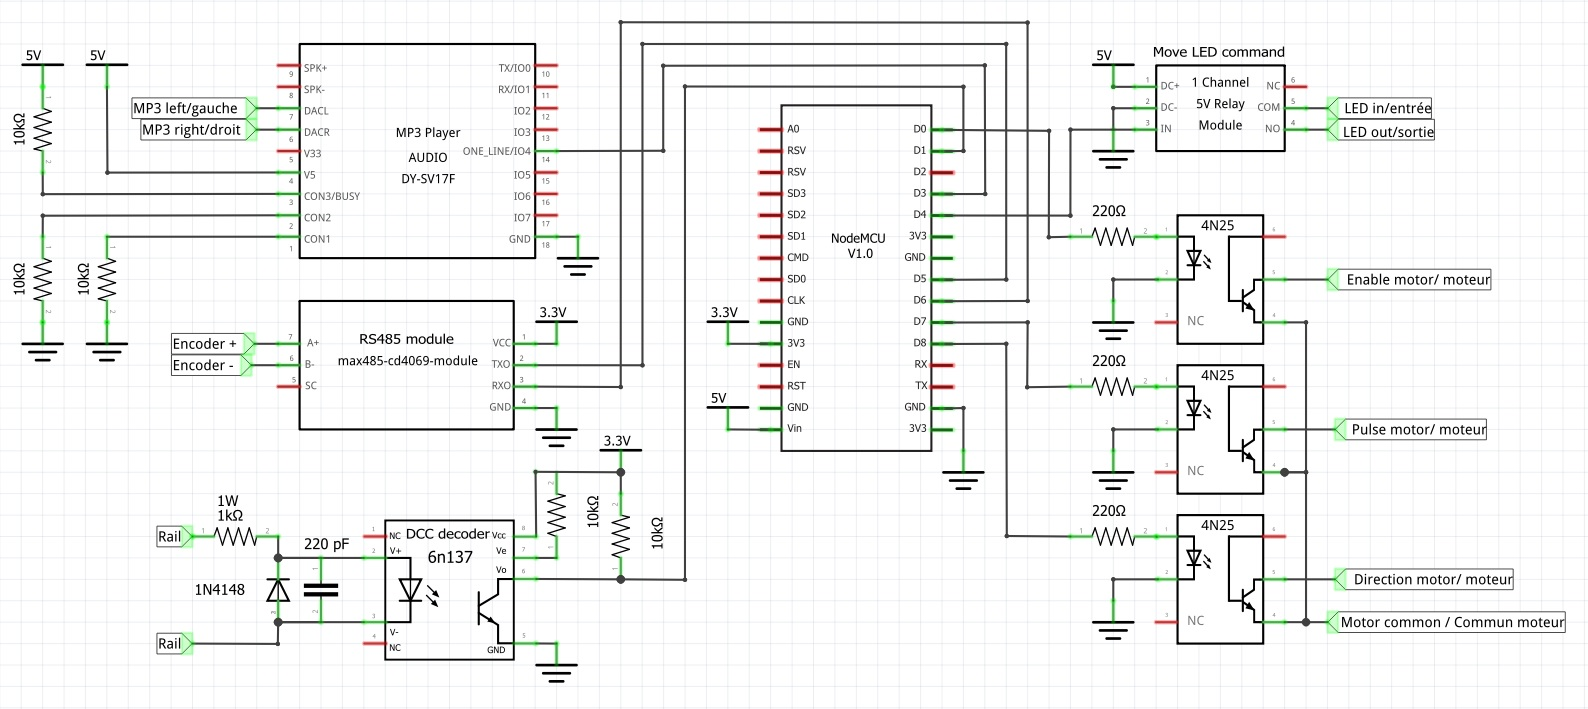
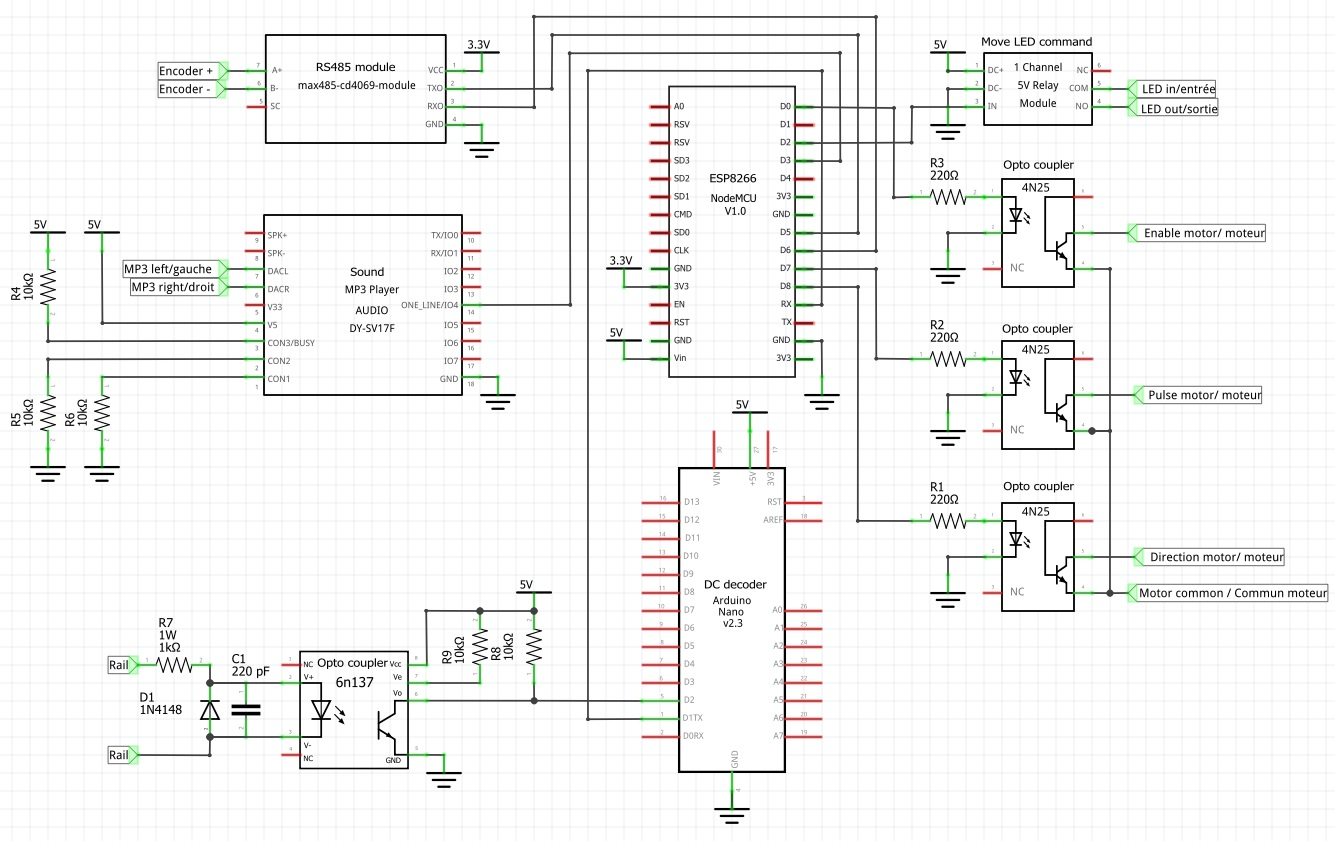
Implement DCC decoder on an External Arduino
Due to high level of interrupts generated by DCC signal (with permanent idle messages), an Arduino has been added to filter all but accessories messages, leading to a stable platform.

Changed region(s): [[0.0, 0.0, 1.0, 0.9619], [0.5221, 0.8999, 0.5835, 0.9929]]

diff --git a/src/preferences.h b/src/preferences.h
@@ -1,7 +1,6 @@
 #include <arduino.h>					// Arduino
 
 uint8_t enablePin = D0;					// Pin where stepper enable signal is connected to
-uint8_t dccPin = D1;                    // Pin where DCC decoder is connected to
 uint8_t runPin = D2;					// Pin where rotation LED is connected to
 uint8_t mp3Pin = D3;					// Pin where MP3 module is connected to (oneline protocol)
 uint8_t rxPin = D5;						// Pin where RS485 RX signal is connected to

diff --git a/README.md b/README.md
@@ -52,7 +52,7 @@ An optional optocoupler is also available to connect a LED to signal turntable r
 
 An optional MP3 reader, based on a DY-SV17A module. It will allow to play a start sound during a settable time, a rotation sound, as long as turntable turns, and a stop sound during a settable time (all optional).
 
-An optional DCC decoder, based on an optocoupler can be added to decode DCC data and intercept rotation request on some specified addresses.
+An optional DCC decoder, based on an optocoupler and an Arduino Nano can be added to decode DCC data and intercept rotation request on some specified addresses.
 
 To make turntable more realistic, inertia is simulated when starting rotation and/or another when stoppoing it.
 
@@ -60,7 +60,7 @@ La connexion entre l'ESP et le capteur de rotation est réalisée par un module 
 
 Un optocoupleur est également disponible pour connecter une LED de rotation (optionnel). Il peut commander/être remplacé par un relai si le courant à commuter est important.
 
-Un decodeur DCC optionnel, basé sur un optocoupleur, peut être ajouté pour décoder les messages DCC et intercepter les demandes de rotation sur certaines adresses.
+Un décodeur DCC optionnel, basé sur un optocoupleur et un Arduino Nano, peut être ajouté pour décoder les messages DCC et intercepter les demandes de rotation sur certaines adresses.
 
 Un lecteur MP3, basé sur un module DY-SV17A peut également être ajouté (optionnel). Il permet de jouer un son de démarrage pendant une durée paramétrable, un son de rotation tant que le pont tourne, et un son d'arrêt pendant une durée paramétrable (tous optionnels).
 
@@ -95,7 +95,7 @@ git clone https://github.com/FlyingDomotic/Railway-turntable railwayTurntable
    - RS485 TX signal is connected to D6
    - Optional rotation LED optocoupler (or relay) is connected to D2
    - Optional MP3 module (one line) is connected on D3
-   - Optional DCC decoder is connected on D1
+   - Optional DCC decoder is connected on RX
 3. Compile and load code into ESP.
 4. Load data folder into ESP flash.
 5. Start ESP and connect to Wifi SSID "PontTournant_XXXXXX" (where XXXXXX represent ESP chip ID)
@@ -117,7 +117,7 @@ git clone https://github.com/FlyingDomotic/Railway-turntable railwayTurntable
    - Le signal RX du module RS485 à D5
    - Le signal TX du module RS485 à D6
    - Le module MP3 optionnel à D3
-   - Le module DCC optionnel à D1
+   - Le module DCC optionnel à RX
    - L'optocoupleur (ou le relais) de la LED de rotation optionnelle à D2.
 3. Compiler et charger le code dans l'ESP.
 4. Charger le contenu du répertoire "data" dans la flash de l'ESP.
